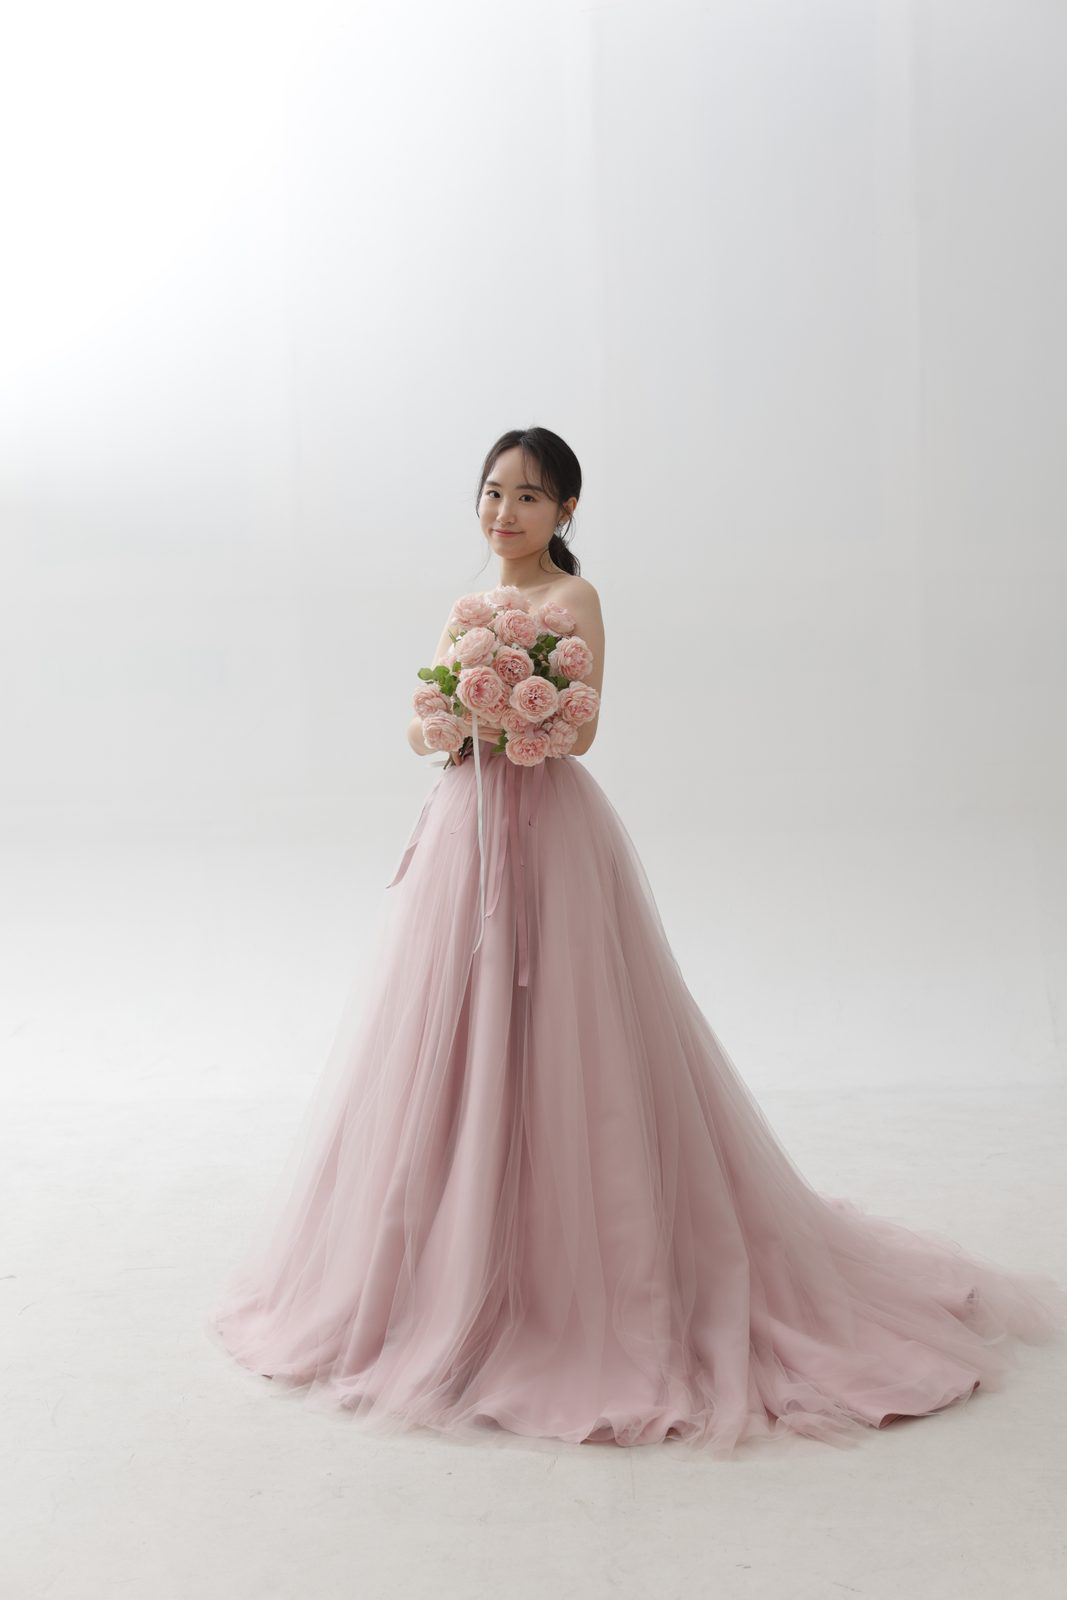
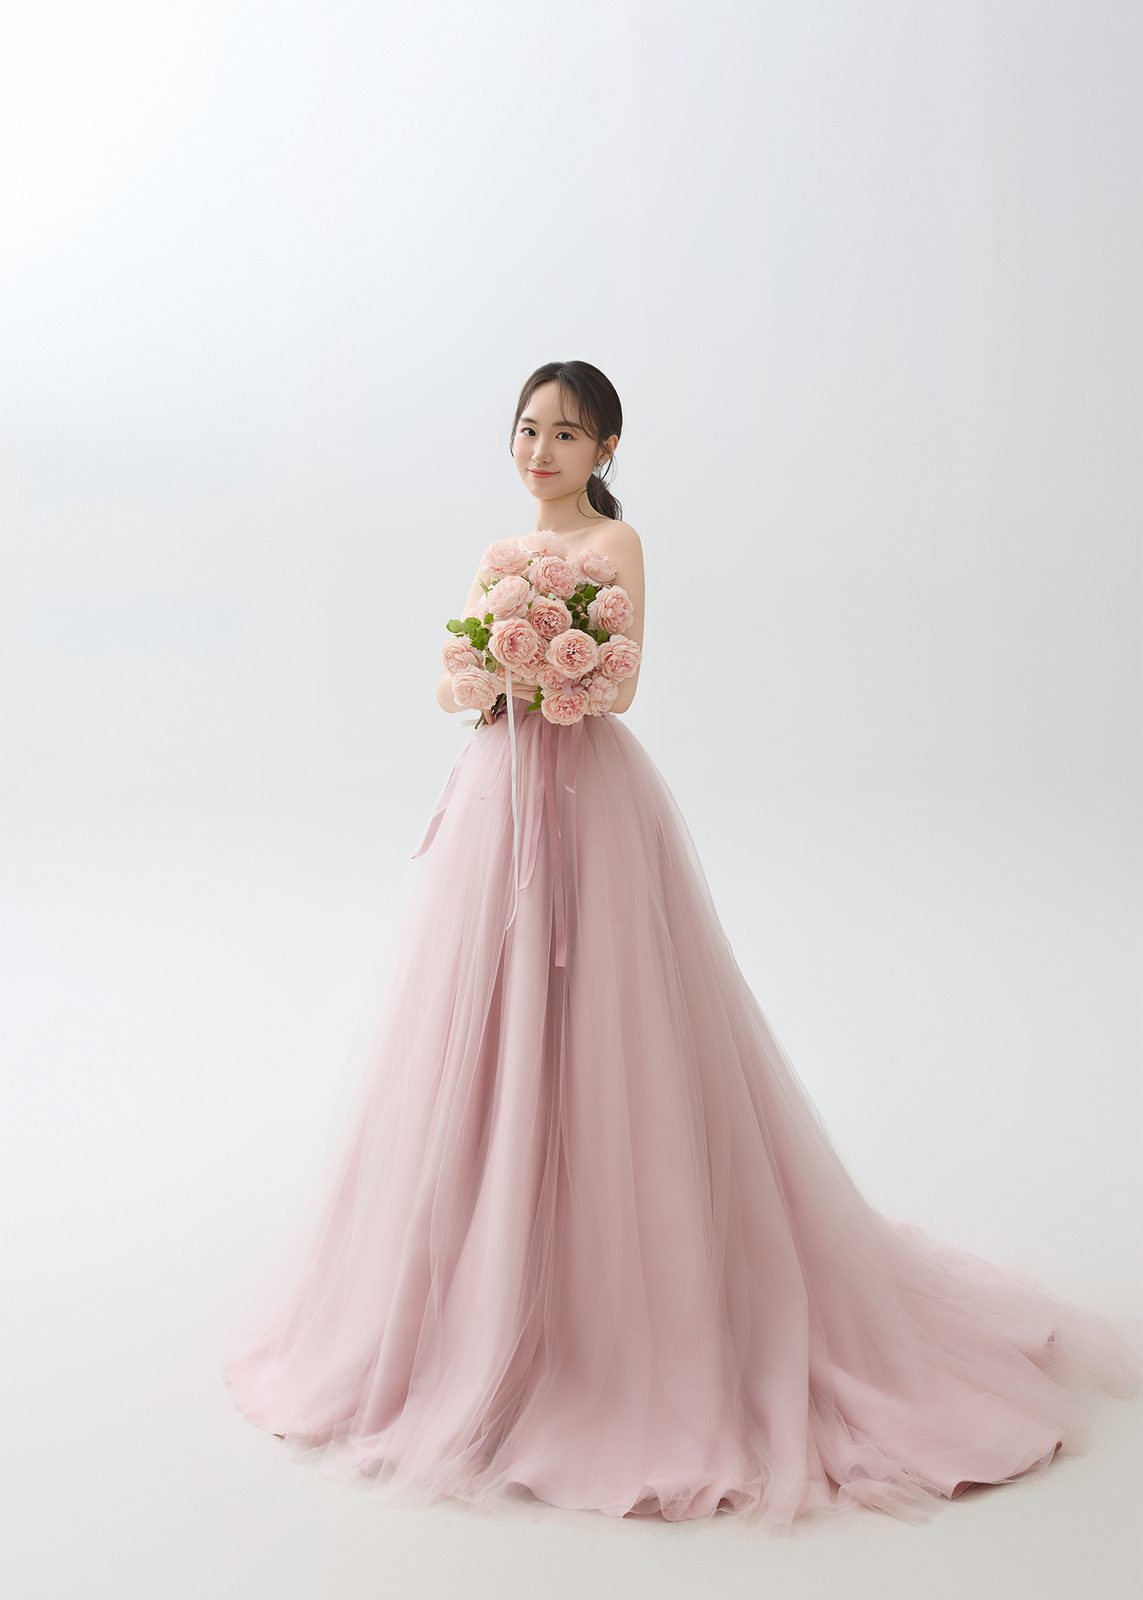
Reformat childhood hashtags, drop parent line, update gallery photo 15
- Hashtags now one per line, '~의 아들/딸' line removed
- Added #ENTJ / #ISFP, changed final tag to #제주소년 / #육지소녀
- Replaced assets/img/15.jpg with the updated source photo (edit_version2/15.jpg)

Claude-Session: https://claude.ai/code/session_017oVqUxdBPM6MnijmuyU2ET

diff --git a/index.html b/index.html
@@ -211,7 +211,7 @@
                 </div>
                 <p class="origin-card__role">GROOM</p>
                 <p class="origin-card__name">김유빈</p>
-                <p class="origin-card__desc">김지훈, 양은희의 아들<br>#긍정왕 #행동파 #운동러버 #9년째 한결같이 #제주먹보</p>
+                <p class="origin-card__desc">#긍정왕<br>#행동파<br>#운동러버<br>#9년째 한결같이<br>#ENTJ<br>#제주소년</p>
               </div>
               <div class="origin-card">
                 <div class="origin-card__photo">
@@ -219,7 +219,7 @@
                 </div>
                 <p class="origin-card__role">BRIDE</p>
                 <p class="origin-card__name">박지인</p>
-                <p class="origin-card__desc">박춘호, 진명희의 딸<br>#집순이 #평화주의자 #소확행 #베스트프렌드 #경기 문학소녀</p>
+                <p class="origin-card__desc">#집순이<br>#평화주의자<br>#소확행<br>#베스트프렌드<br>#ISFP<br>#육지소녀</p>
               </div>
             </div>
           </div>
